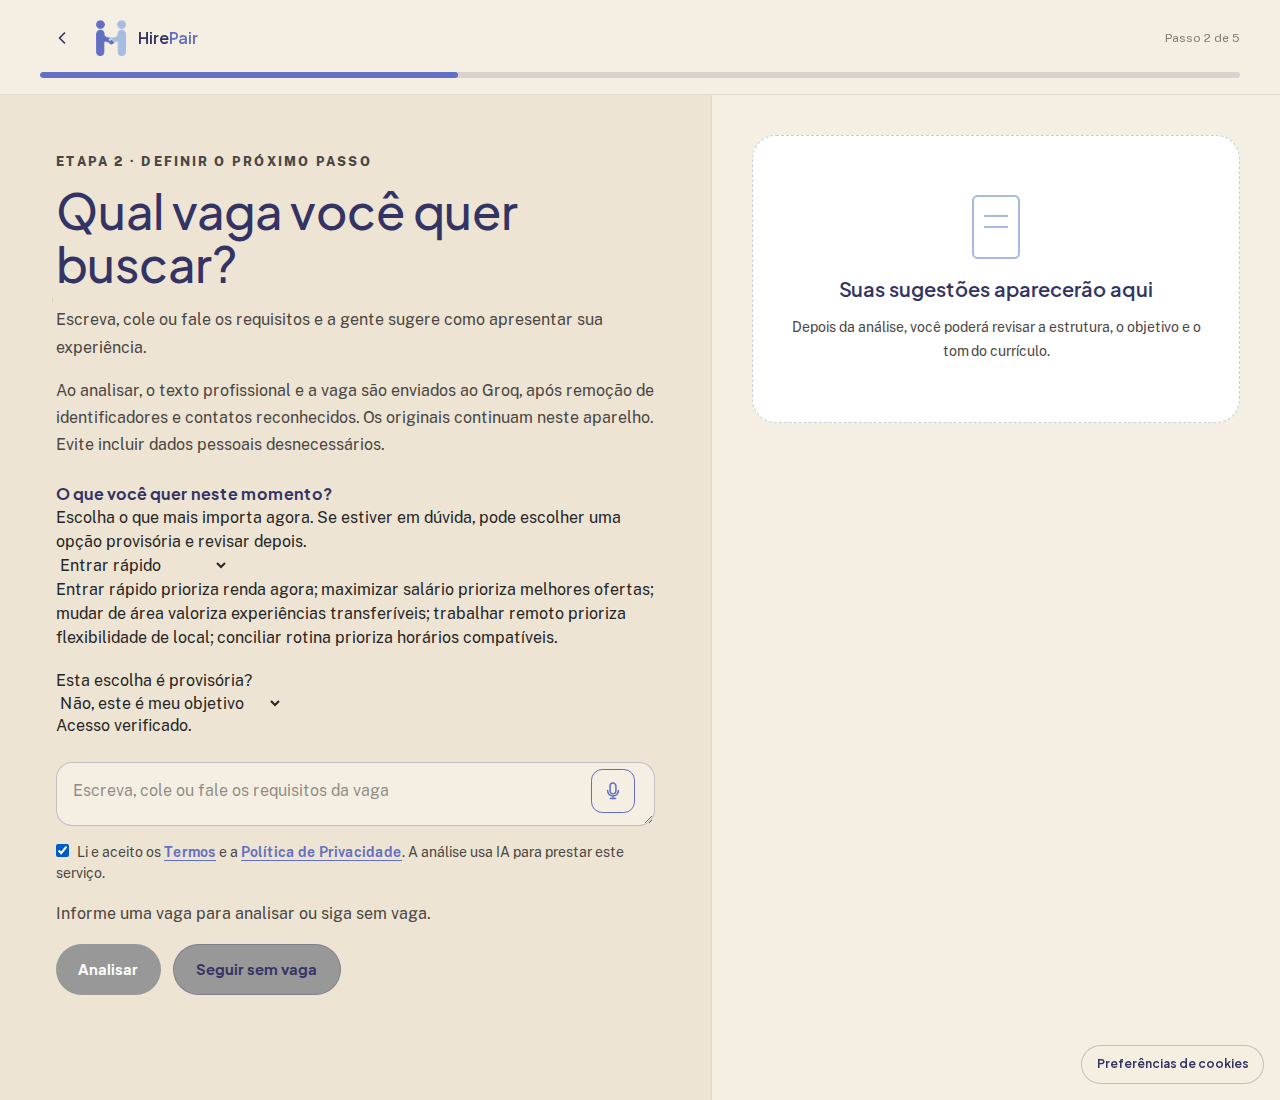
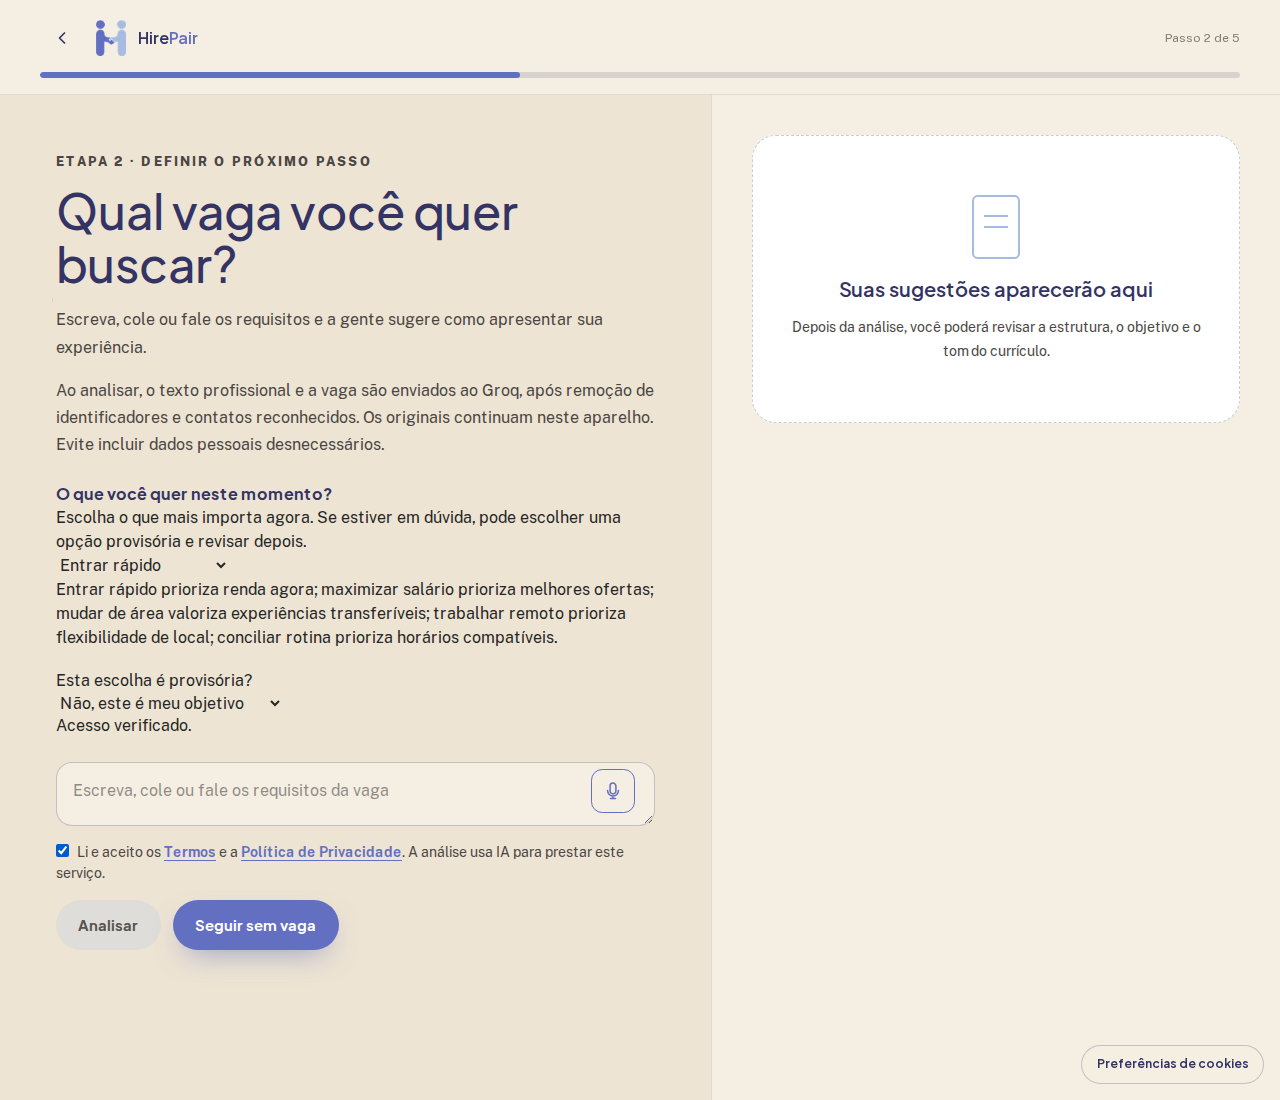
fix(57): destacar ação disponível na etapa de vaga

Changed region(s): [[0.0312, 0.8036, 0.3438, 0.9273], [0.3438, 0.0618, 0.4062, 0.0927]]

diff --git a/apps/web/e2e/conversa.spec.ts b/apps/web/e2e/conversa.spec.ts
@@ -81,12 +81,18 @@ test.describe('wizard acolhedor', () => {
     const skip = page.getByRole('button', { name: 'Seguir sem vaga' });
     await expect(analyze).toBeDisabled();
     await expect(skip).toBeDisabled();
+    await expect(analyze).toHaveCSS('background-color', 'rgb(223, 221, 217)');
+    await expect(skip).toHaveCSS('color', 'rgb(87, 83, 78)');
     await page.getByRole('checkbox').check();
     await expect(skip).toBeEnabled();
+    await expect(skip).toHaveCSS('background-color', 'rgb(99, 111, 193)');
+    await expect(skip).toHaveCSS('color', 'rgb(255, 255, 255)');
     await page.getByLabel(/requisitos da vaga/i).fill('   ');
     await expect(skip).toBeEnabled();
     await page.getByLabel(/requisitos da vaga/i).fill('Vaga');
     await expect(analyze).toBeEnabled();
+    await expect(analyze).toHaveCSS('background-color', 'rgb(99, 111, 193)');
+    await expect(analyze).toHaveCSS('color', 'rgb(255, 255, 255)');
     await expect(skip).toBeDisabled();
     await page.getByRole('checkbox').uncheck();
     await expect(analyze).toBeDisabled();

diff --git a/apps/web/src/app/conversa/_components/job-example-step.tsx b/apps/web/src/app/conversa/_components/job-example-step.tsx
@@ -74,9 +74,7 @@ export function JobExampleStep({
         ? 'Aguarde a verificação para continuar.'
         : voiceBusy
           ? 'Conclua o ditado para continuar.'
-          : hasJob
-            ? 'Analise a vaga para continuar. Para seguir sem vaga, apague o texto.'
-            : 'Informe uma vaga para analisar ou siga sem vaga.';
+          : '';
   const updateDraft = (next: Partial<JobDraft>) => onDraftChange({ ...draft, ...next });
 
   const analyze = async (verifiedChallenge: GuestChallenge, withJob: boolean) => {
@@ -201,7 +199,7 @@ export function JobExampleStep({
         </button>
         <button
           aria-describedby="job-action-guidance"
-          className="button button-outline"
+          className="button button-primary"
           disabled={unavailable || hasJob}
           onClick={challenge ? () => void analyze(challenge, false) : undefined}
           type="button"

diff --git a/apps/web/src/app/conversa/_components/job-example-step.test.tsx b/apps/web/src/app/conversa/_components/job-example-step.test.tsx
@@ -85,6 +85,9 @@ describe('JobExampleStep', () => {
     expect(screen.getByText(/aceite os termos/i)).toBeInTheDocument();
     fireEvent.click(screen.getByRole('checkbox'));
     expect(skip).toBeEnabled();
+    expect(
+      screen.queryByText(/informe uma vaga para analisar ou siga sem vaga/i),
+    ).not.toBeInTheDocument();
     fireEvent.change(screen.getByLabelText('Requisitos da vaga'), { target: { value: '   ' } });
     expect(skip).toBeEnabled();
     expect(analyze).toBeDisabled();

diff --git a/apps/web/src/app/conversa/conversa.css b/apps/web/src/app/conversa/conversa.css
@@ -39,6 +39,14 @@
   gap: 0.75rem;
   margin-top: 1rem;
 }
+.job-actions .button:disabled,
+.job-actions .button:disabled:hover {
+  background: #dfddd9;
+  color: #57534e;
+}
+#job-action-guidance:empty {
+  display: none;
+}
 .job-terms {
   display: block;
   margin: 1rem 0;
